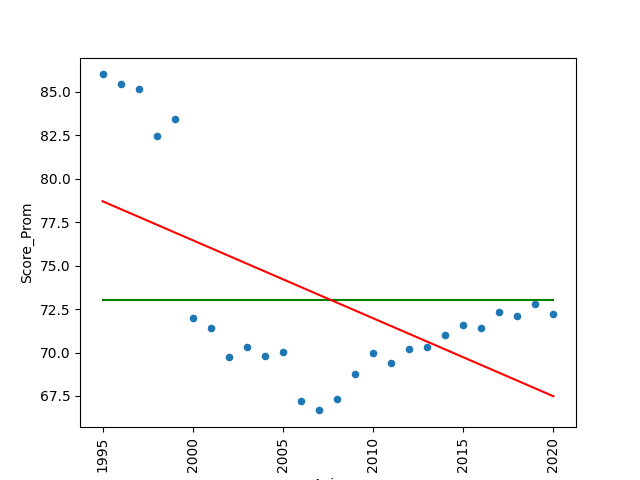
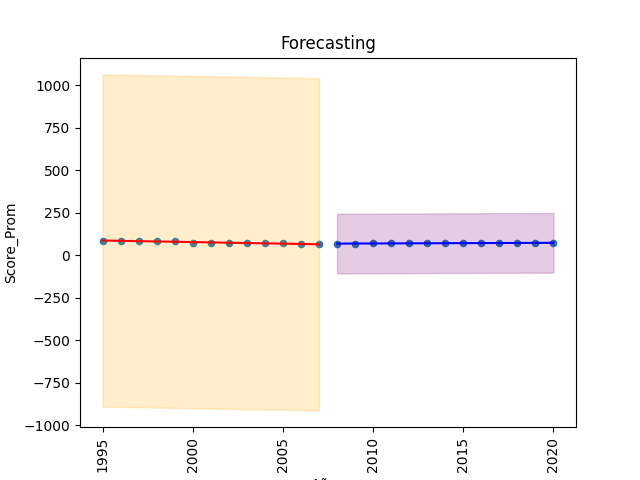
Practicas de la materia de mineria

diff --git a/Practica_7/Practica_7.py b/Practica_7/Practica_7.py
@@ -1,3 +1,4 @@
+from re import X
 import matplotlib.pyplot as plt
 import statsmodels.api as sm
 import numbers
@@ -7,6 +8,8 @@ from statsmodels.stats.outliers_influence import summary_table
 from typing import Tuple, Dict
 import numpy as np
 
+
+'''
 datos = pd.read_csv("/Users/Armando/Desktop/CodigoPython/games-data-limpio.csv")
 df = pd.DataFrame(datos)
 
@@ -66,23 +69,25 @@ plt.title("Forecast", fontsize=18)
 plt.legend(loc='best')
 plt.savefig('/Users/Armando/Desktop/CodigoPython/Practica_7/forecasting_Score_Anio.png')
 plt.show()
-
-
-
 '''
+
+
+
+
+
 
 def print_tabulate(df: pd.DataFrame):
     print(tabulate(df, headers=df.columns, tablefmt="orgtbl"))
 
 def transform_variable(df: pd.DataFrame, x:str)->pd.Series:
-    if isinstance(df[x][0], numbers.Number):
+    if isinstance(df[x][df.index[0]], numbers.Number):
         return df[x] # type: pd.Series
     else:
         return pd.Series([i for i in range(0, len(df[x]))])
 
 def linear_regression(df: pd.DataFrame, x:str, y: str)->Dict[str, float]:
     fixed_x = transform_variable(df, x)
-    model= sm.OLS(df[y],sm.add_constant(fixed_x)).fit()
+    model= sm.OLS(list(df[y]),sm.add_constant(fixed_x)).fit()
     bands = pd.read_html(model.summary().tables[1].as_html(),header=0,index_col=0)[0]
     print_tabulate(pd.read_html(model.summary().tables[1].as_html(),header=0,index_col=0)[0])
     coef = pd.read_html(model.summary().tables[1].as_html(),header=0,index_col=0)[0]['coef']
@@ -91,17 +96,43 @@ def linear_regression(df: pd.DataFrame, x:str, y: str)->Dict[str, float]:
 
 def plt_lr(df: pd.DataFrame, x:str, y: str, m: float, b: float, r2: float, r2_adj: float, low_band: float, hi_band: float, colors: Tuple[str,str]):
     fixed_x = transform_variable(df, x)
-    df.plot(x=x,y=y, kind='scatter')
+    # df.plot(x=x,y=y, kind='scatter')
     plt.plot(df[x],[ m * x + b for _, x in fixed_x.items()], color=colors[0])
     plt.fill_between(df[x],
                      [ m * x  + low_band for _, x in fixed_x.items()],
                      [ m * x + hi_band for _, x in fixed_x.items()], alpha=0.2, color=colors[1])
 
 
-datos = pd.read_csv("/Users/Armando/Desktop/CodigoPython/games-data-limpio.csv")
+datos = pd.read_csv("/Users/Armando/Desktop/CodigoPython/df_anios.csv")
 df = pd.DataFrame(datos)
 
-df_anio = df.groupby("Anio").aggregate(Score_Prom=pd.NamedAgg(column="Score", aggfunc=pd.DataFrame.mean))
+x = "Anio"
+y = "Score_Prom"
+
+df.plot(x=x,y=y, kind='scatter')
+# a = linear_regression(df, x,y)
+# plt_lr(df=df, x=x, y=y, colors=('red', 'orange'), **a)
+a = linear_regression(df.head(13), x,y)
+plt_lr(df=df.head(13), x=x, y=y, colors=('red', 'orange'), **a)
+
+a = linear_regression(df.tail(13), x,y)
+plt_lr(df=df.tail(13), x=x, y=y, colors=('blue', 'purple'), **a)
+# df_j = df[pd.to_datetime(df[x]).dt.dayofweek == 4]
+# print_tabulate(df_j)
+# a = linear_regression(df_j, x,y)
+# plt_lr(df=df_j, x=x, y=y, colors=('blue', 'blue'), **a)
+#
+plt.title("Forecasting")
+plt.xlabel("Años")
+plt.ylabel("Score_Prom")
+plt.xticks(rotation=90)
+plt.savefig('/Users/Armando/Desktop/CodigoPython/Practica_7/lr_Score_Anio.png')
+plt.close()
+
+
+'''
+
+# df_anio = df.groupby("Anio").aggregate(Score_Prom=pd.NamedAgg(column="Score", aggfunc=pd.DataFrame.mean))
 # df_anio["Score_Prom"] = df_anio["Score_Prom"]**10
 df_anio.reset_index(inplace=True)
 print_tabulate(df_anio)
@@ -114,4 +145,3 @@ plt.savefig('/Users/Armando/Desktop/CodigoPython/Practica_7/lr_Score_Anio.png')
 plt.close()
 
 '''
-
